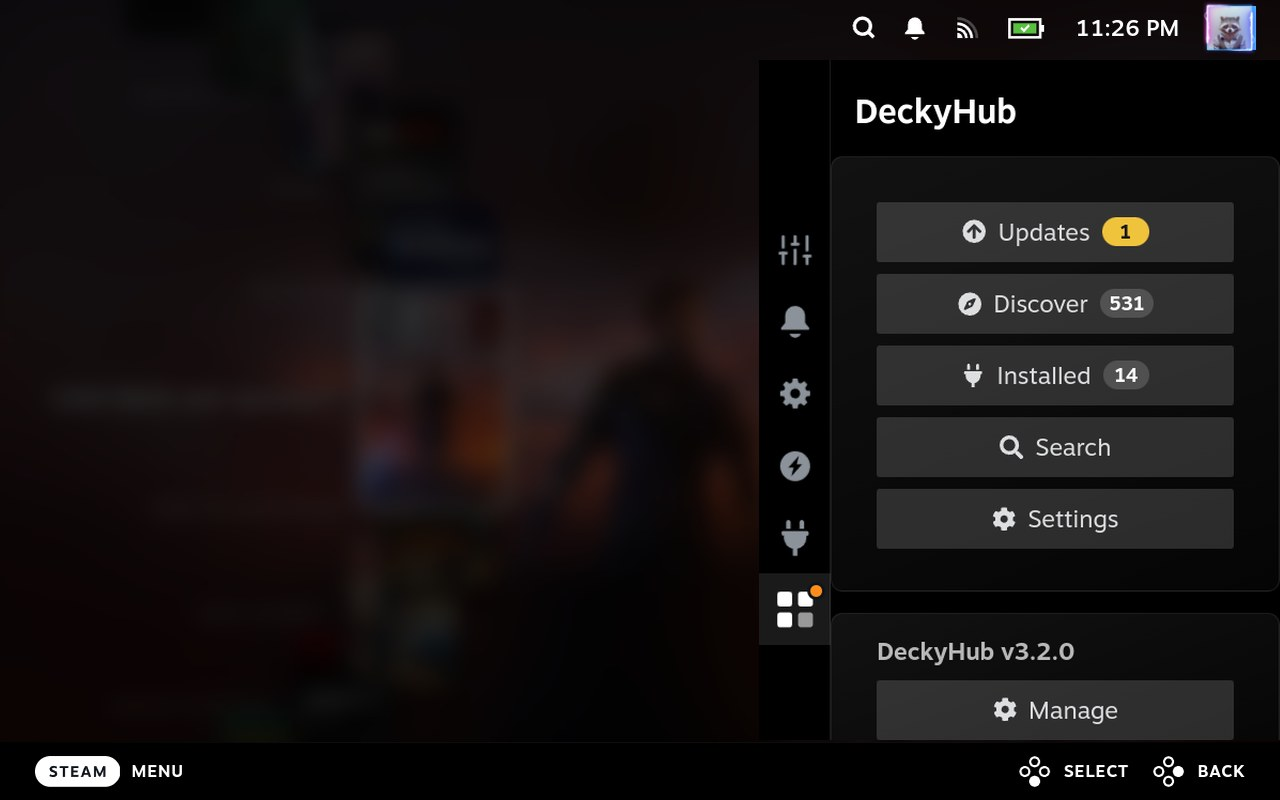
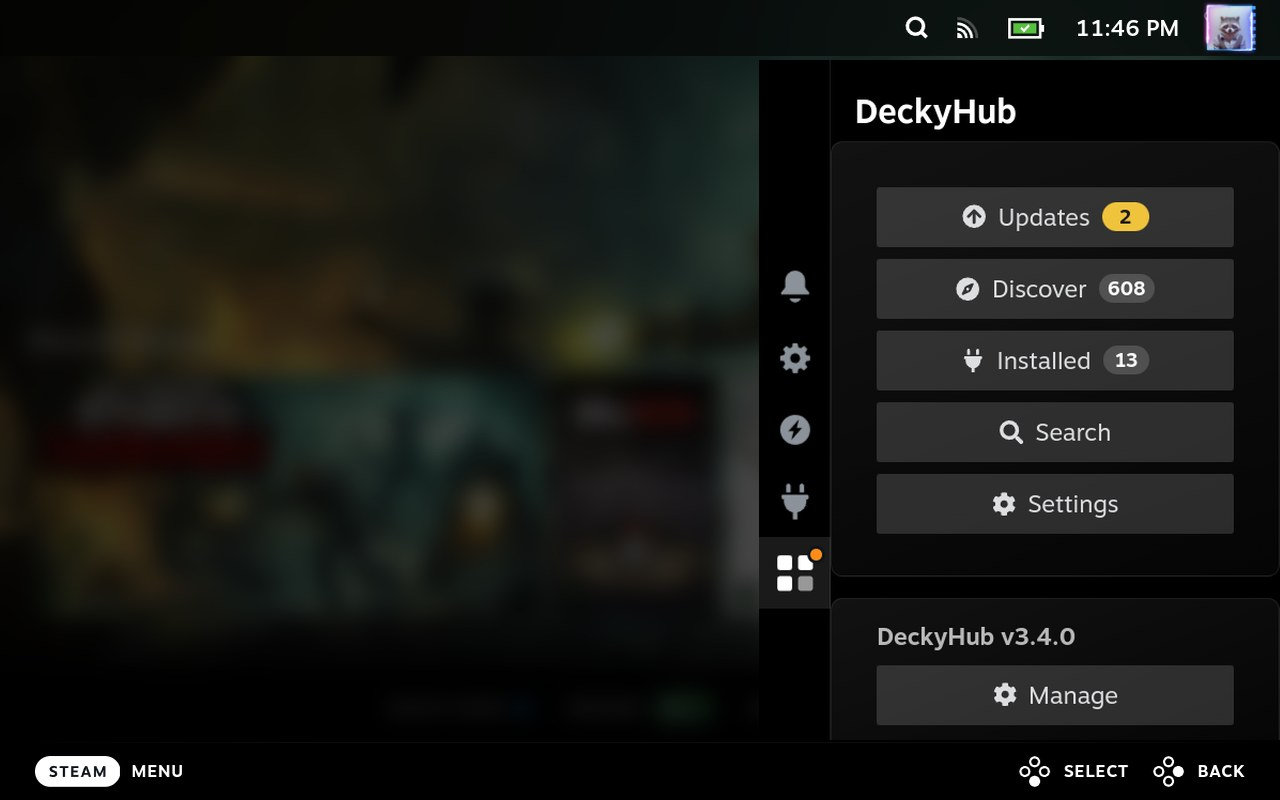
Update screenshots, promo images and the GIF
Taken on a real device from the rc.16 build with a stable-looking version label: the
README's and website's screenshots, the hero and social images and promo/deckyhub.gif,
and the Remote Install manual's five (the new pairing window, Remote access, Plugin
requests). The remote screenshot script and screenshots_to_jpg.py follow the new
pairing window, and the Deck tools find Steam's windows after its UI reloads
(QuickAccess_uid3, uid4, ...).

diff --git a/devtools/deck/screenshots_to_jpg.py b/devtools/deck/screenshots_to_jpg.py
@@ -26,9 +26,11 @@ def with_panel(background: Path, panel_file: Path) -> Image.Image:
 
 
 if sys.argv[2:] == ["remote"]:
-    for name in ("remote-pair-mode", "remote-pairing-request", "remote-request"):
-        with_panel(src / f"{name}-background.png", src / f"{name}-panel.png").save(out / f"{name}.jpg", quality=88)
-    for name in ("remote-paired-devices", "remote-send-to-device"):
+    with_panel(src / "remote-request-background.png", src / "remote-request-panel.png").save(
+        out / "remote-request.jpg", quality=88
+    )
+    # The pairing window and the two pages of the website are whole screens.
+    for name in ("remote-pair-mode", "remote-pairing-request", "remote-paired-devices", "remote-send-to-device"):
         Image.open(src / f"{name}.png").convert("RGB").resize(SIZE, Image.LANCZOS).save(out / f"{name}.jpg", quality=88)
     sys.exit()
 
